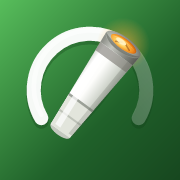
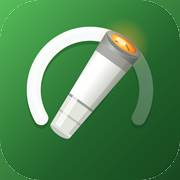
brand: nuova icona app (marchio raster 3D)
Sostituisce il segno piatto "Project A" come icona dell'app con l'immagine
raster fornita da Matteo (torcia/joint su arco odometro, tile verde).

- img/brand/source-icon.png: sorgente di verita' (il PNG fornito)
- generate-icons.ps1: nuovo script che ritaglia la tile e produce favicon,
  icone PWA (any + maskable), apple-touch, favicon.svg (wrapper con PNG
  embedded) e ricompone og-image.png tenendo il testo Sora
- favicon-16/32, icon-192/384/512/1024, icon-maskable-*, icon-master,
  apple-touch-icon, og-image, splash/* rigenerati
- generate-pwa-assets.ps1 / CLAUDE.md: doc aggiornata (pipeline ora raster,
  non piu' resvg dai vettori img/brand/*.svg)

Nota: il segno inline delle pagine marketing e il logo della pagina di
login restano quelli vecchi (fuori scope).

diff --git a/CLAUDE.md b/CLAUDE.md
@@ -64,10 +64,12 @@ npm run build
 # vengono serviti cosi' come sono. Basta un qualsiasi static server sulla root, es.:
 npx serve .
 
-# Rigenerare gli splash screen iOS da icon-master.png
+# Rigenerare le icone (favicon/PWA/apple-touch/og-image) dal marchio raster
+# img/brand/source-icon.png, poi gli splash screen iOS da icon-master.png:
+powershell -ExecutionPolicy Bypass -File generate-icons.ps1
 powershell -ExecutionPolicy Bypass -File generate-pwa-assets.ps1
-# Le icone (favicon/PWA/apple-touch/og-image) si rigenerano dai vettori in img/brand/
-# con @resvg/resvg-js-cli via npx — vedi il commento in testa a generate-pwa-assets.ps1
+# NB: dal 2026-09 il marchio dell'app e' un raster, non piu' i vettori img/brand/*.svg
+# (quei file restano solo per il segno inline delle pagine marketing).
 
 # Deploy: push su main del repo GitHub -> Vercel fa auto-deploy (build + dist/) da solo
 git push origin main
